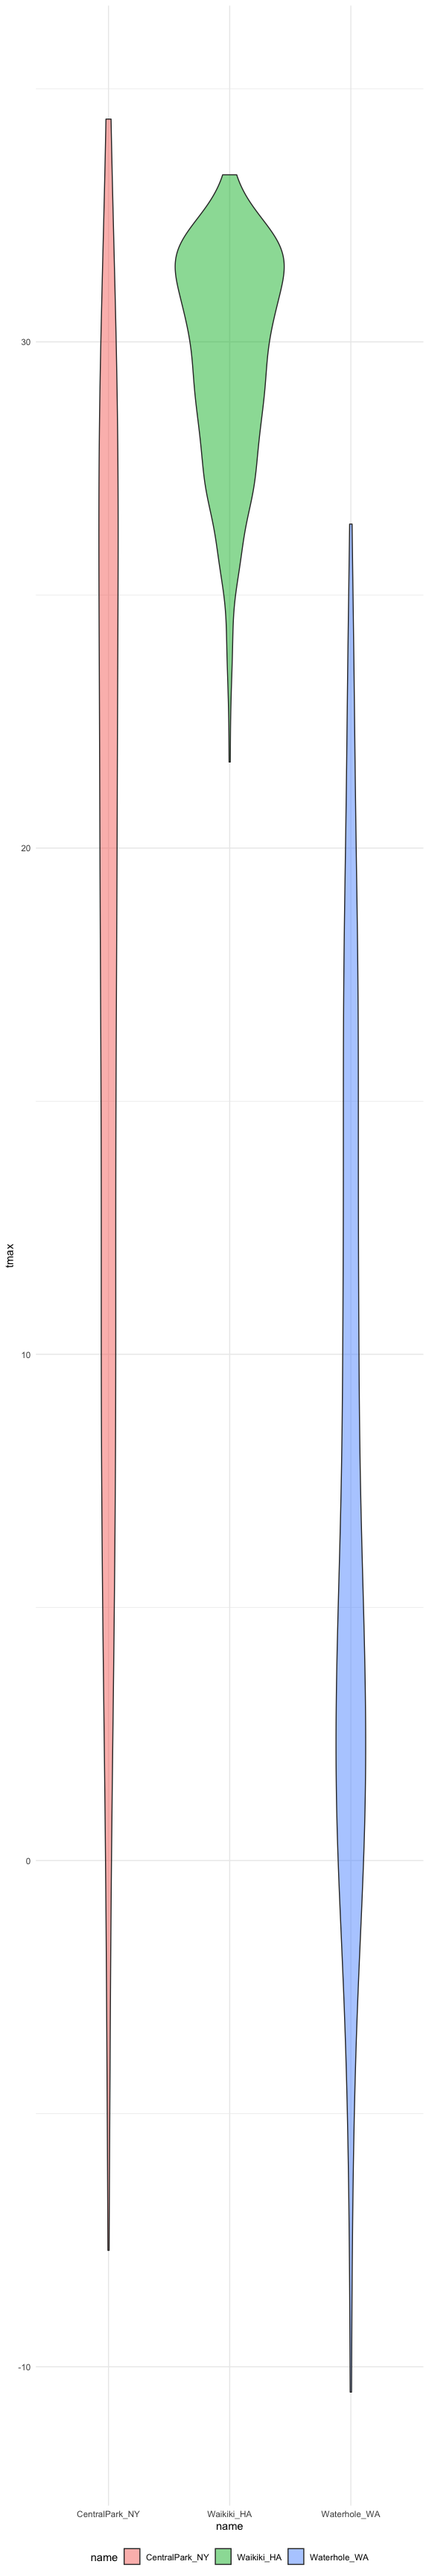
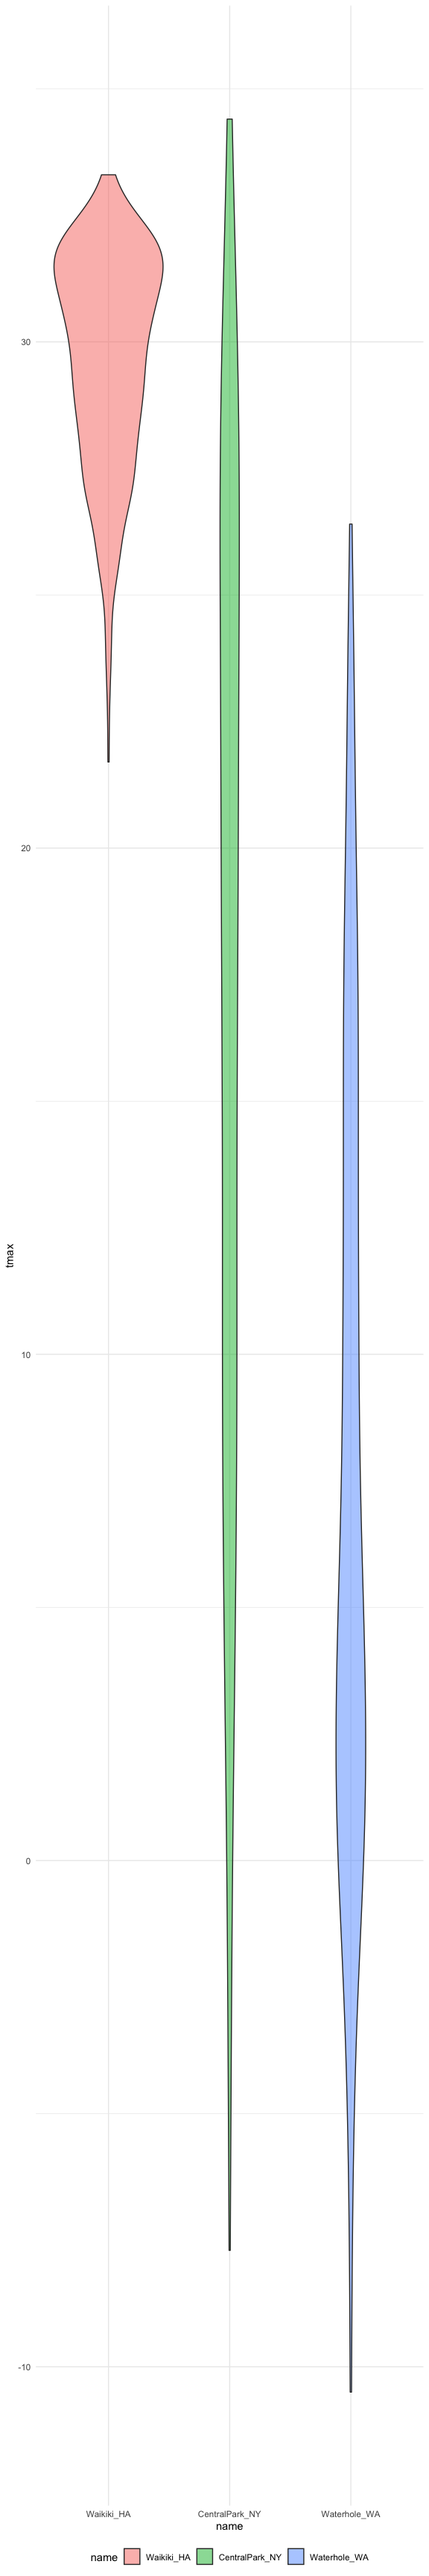
data manipulation as part of plotting

Changed region(s): [[0.125, 0.0312, 0.375, 0.875], [0.4062, 0.0312, 0.6562, 0.875], [0.4375, 0.9688, 0.5938, 1.0]]

diff --git a/vis_ggplot2.md b/vis_ggplot2.md
@@ -307,18 +307,50 @@ tmax_date_p =
   theme(legend.position = "none")
 
 
-#tmax_tmin_p + prcp_dens_p + 
-#why isn't patchwork working
+(tmax_tmin_p + prcp_dens_p) / tmax_date_p
 ```
+
+    ## Warning: Removed 15 rows containing missing values (geom_point).
+
+    ## `geom_smooth()` using method = 'loess' and formula 'y ~ x'
+
+    ## Warning: Removed 3 rows containing non-finite values (stat_smooth).
+
+    ## Warning: Removed 3 rows containing missing values (geom_point).
+
+<img src="vis_ggplot2_files/figure-gfm/unnamed-chunk-12-1.png" width="90X" />
 
 ## Data manipulation
 
 ``` r
 weather_df %>% 
+  mutate(
+    name = factor(name), 
+    name = forcats::fct_relevel(name, c("Waikiki_HA"))
+  ) %>% 
   ggplot(aes(x = name, y = tmax, fill = name)) + 
-  geom_violin(alpha = 0.5)
+  geom_violin(alpha = 0.5) #name goes in alphabetical order, but we want low to high by tmax. 
 ```
 
     ## Warning: Removed 3 rows containing non-finite values (stat_ydensity).
 
 <img src="vis_ggplot2_files/figure-gfm/unnamed-chunk-13-1.png" width="90X" />
+
+What if I wanted densities for tmin and tmax simutaneously?
+
+``` r
+weather_df%>% 
+  #filter(name == "CentralPark_NY") %>% #removed to facet with the other locations
+  pivot_longer(
+    tmax:tmin,
+    names_to = "observation",
+    values_to = "temps"
+  ) %>% 
+  ggplot(aes(x = temps, fill = observation)) +
+  geom_density(alpha = 0.5) + #temp distribuiton for tmax and tmin
+  facet_grid(. ~ name)
+```
+
+    ## Warning: Removed 18 rows containing non-finite values (stat_density).
+
+<img src="vis_ggplot2_files/figure-gfm/unnamed-chunk-14-1.png" width="90X" />
